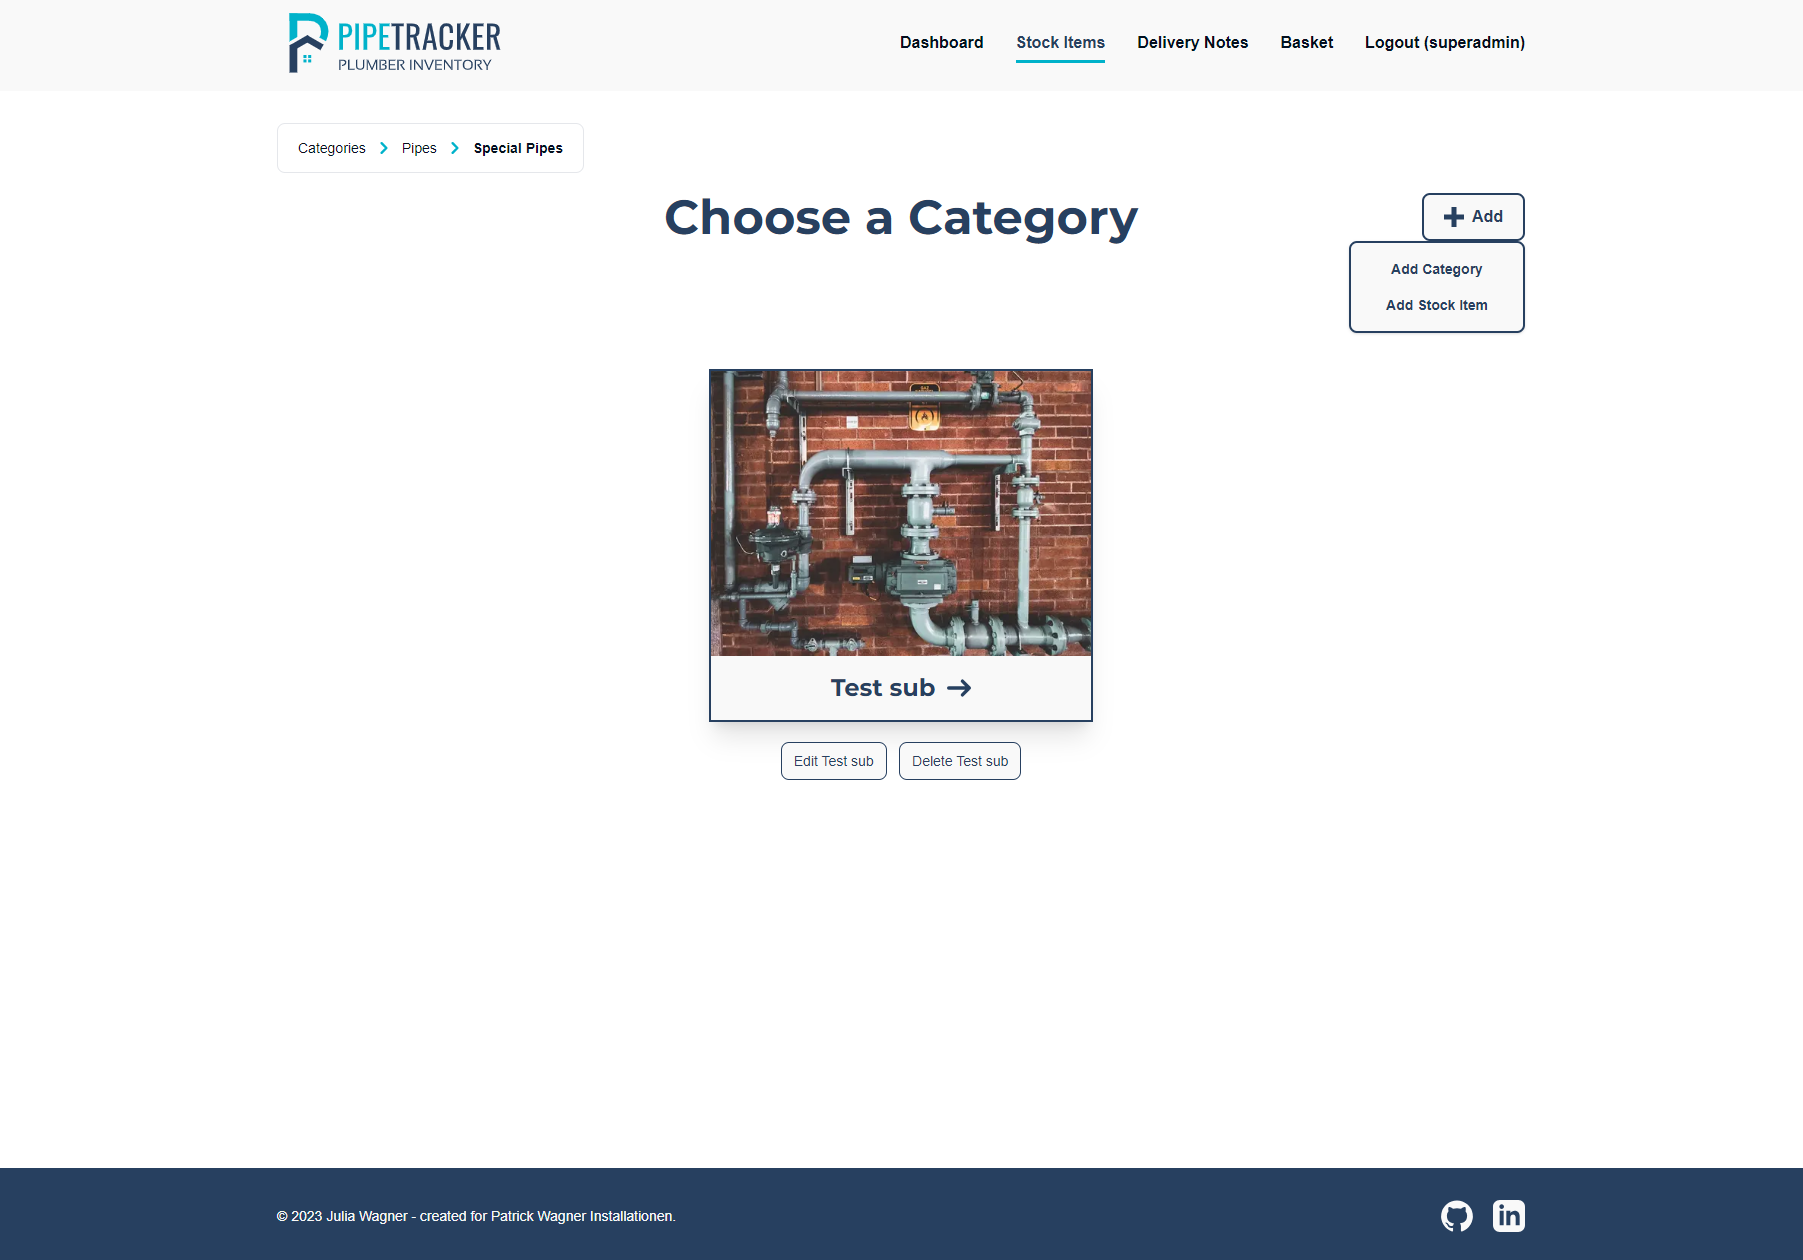
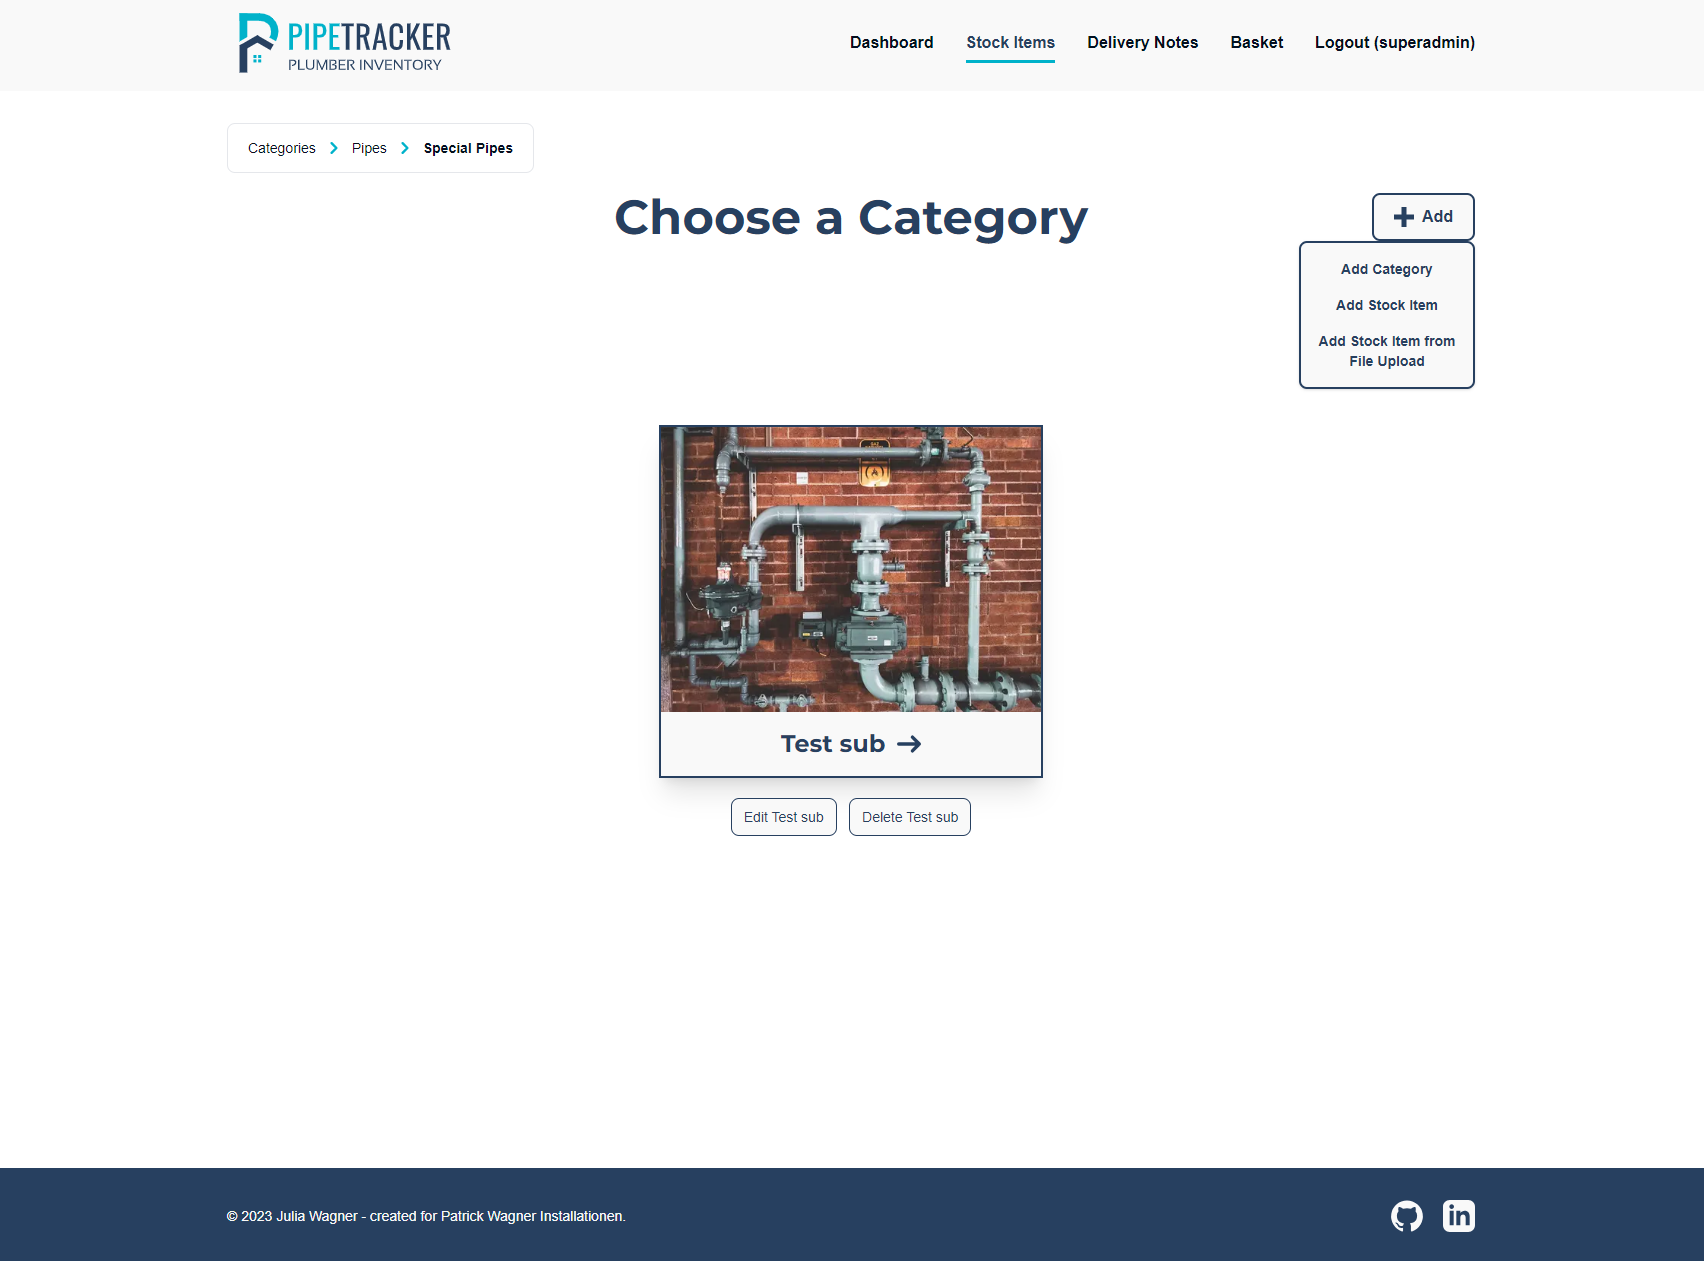
doc: add CSV upload to readme

diff --git a/README.md b/README.md
@@ -36,6 +36,11 @@ Here is the [link to the deployed project](https://pipetracker-96d1f7c7a4dc.hero
   * [**Authentication**](#authentication)
   * [**Messages**](#messages)
   * [**Stock Items and Categories**](#stock-items-and-categories)
+    * [**Categories**](#categories)
+    * [**Stock Items**](#stock-items)
+    * [**CSV Upload**](#csv-upload)
+  * [**Basket**](#basket)
+  * [**Delivery Notes**](#delivery-notes)
 * [**Agile Process**](#agile-process)
 * [**Deployment**](#deployment)
   * [**Create Repository**](#create-repository)
@@ -277,6 +282,8 @@ The messages can be closed using the icon, after 4 seconds they are closed autom
 
 ## **Stock Items and Categories**
 
+### **Categories**
+
 After clicking **Stock Items** in the menu, all available categories are shown as cards. They can be opened, edited or deleted.
 
 ![Categories](docs/screenshots/categories.png)\
@@ -292,6 +299,8 @@ A new category or stock item can be added at each of the **Stock Items** pages. 
 ![Add stock item](docs/screenshots/add_item.png)\
 *Add a stock item (mobile)*
 
+### **Stock Items**
+
 If the selected category does not have any subcategories, the stock items of this category are shown. The items are presented in a table that is orderable by relevant fields. 
 
 Full CRUD is also available for stock items. By clicking edit, the selected stock item can be edited or deleted. The item quantity can also be edited directly in the table by clicking **-** or **+**. The stock item can be added to the basket by choosing the desired amount and clicking **Add**. There can never be added more items to the basket, than available in the stock.
@@ -301,6 +310,20 @@ Full CRUD is also available for stock items. By clicking edit, the selected stoc
 
 ![Edit stock item](docs/screenshots/edit_item.png)\
 *Edit a stock item*
+
+### **CSV Upload**
+
+A CSV file can be uploaded to automatically create stock items. The form checks the file extension to only allow uploading **.csv** files. The uploaded file is then validated to check if all the required fields are in the file and if the given values have the correct format.
+
+Any errors in the file are reported to the user. If there are no errors, the stock items are created. The number of created stock items is then printed in a message to the user. If the file contains a stock item that already exists, it is skipped to avoid unintentional changes to the existing stock.
+
+![CSV Upload](docs/screenshots/csv_upload.png)\
+*CSV Upload*
+
+An example file containing the necessary columns can be downloaded, to help the user by providing a validated template.
+
+![Example file](docs/screenshots/example_file.png)\
+*Example CSV file*
 
 ## **Basket**
 
@@ -339,7 +362,7 @@ The button **Export as PDF** saves the delivery note data with all items to a PD
 ![Delivery note detail](docs/screenshots/note_detail.png)\
 *Delivery note detail*
 
-The exported PDF is really simple, but contains all the necessary information.
+The exported PDF is really simple but contains all the necessary information.
 
 ![Exported Delivery note](docs/screenshots/note_export.png)\
 *Delivery note Export PDF*
